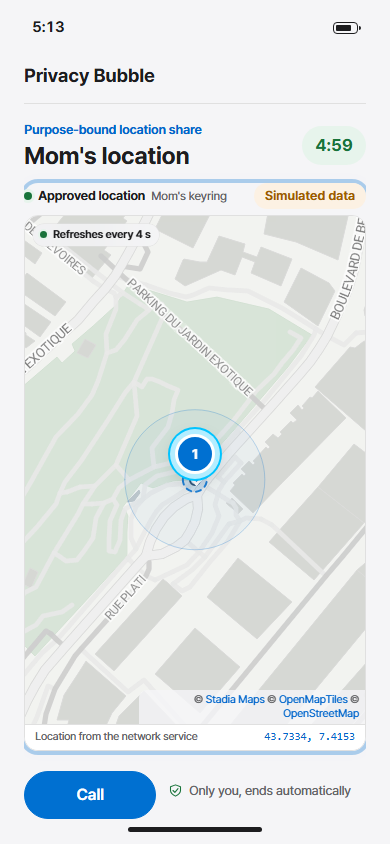
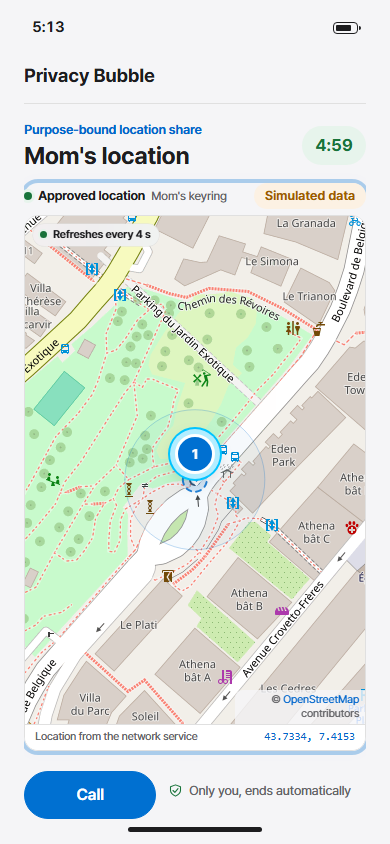
fix(web): use public map tiles without credentials

diff --git a/web-dashboard/shared/map-presentation.ts b/web-dashboard/shared/map-presentation.ts
@@ -39,8 +39,10 @@ export function mapTileStyle(style: MapStyle, settings: {
   if (settings.customUrl) return { url: settings.customUrl, attribution: settings.customAttribution || osmAttribution, maxZoom: 19 };
   const stadiaKey = settings.stadiaKey?.trim();
   const stadiaDomain = settings.stadiaDomain?.trim().toLowerCase();
-  // Without a key or domain, Stadia still serves localhost and LAN hosts; a public host that gets 401 falls back to OpenStreetMap at runtime.
-  if (!stadiaKey && stadiaDomain && stadiaDomain !== settings.hostname?.toLowerCase()) return street;
+  // Stadia serves only an API-key request or the exact registered domain. Every other host starts
+  // with OpenStreetMap, because some tile providers return a branded 401 image with HTTP 200 and
+  // therefore never emit Leaflet's tileerror event.
+  if (!stadiaKey && (!stadiaDomain || stadiaDomain !== settings.hostname?.toLowerCase())) return street;
   const key = stadiaKey ? `?api_key=${encodeURIComponent(stadiaKey)}` : '';
   return {
     url: `https://tiles.stadiamaps.com/tiles/alidade_smooth/{z}/{x}/{y}{r}.png${key}`,

diff --git a/web-dashboard/test/map-presentation.test.ts b/web-dashboard/test/map-presentation.test.ts
@@ -20,10 +20,9 @@ test('지도 공급자 전환은 각 공급자의 출처와 확대 한도를 함
   assert.equal(custom.attribution, 'Registered map provider');
 });
 
-test('키와 등록 도메인이 없으면 키 없는 Stadia 지도를 먼저 쓴다', () => {
-  const keyless = 'https://tiles.stadiamaps.com/tiles/alidade_smooth/{z}/{x}/{y}{r}.png';
-  assert.equal(mapTileStyle('map').url, keyless);
-  assert.equal(mapTileStyle('map', { stadiaKey: '   ', stadiaDomain: '  ', hostname: 'localhost' }).url, keyless);
+test('키와 등록 도메인이 없으면 OpenStreetMap을 바로 쓴다', () => {
+  assert.deepEqual(mapTileStyle('map'), fallbackMapTile);
+  assert.deepEqual(mapTileStyle('map', { stadiaKey: '   ', stadiaDomain: '  ', hostname: 'localhost' }), fallbackMapTile);
 });
 
 test('등록 도메인이 현재 호스트와 일치하면 API 키 없이 Stadia를 사용한다', () => {

diff --git a/web-dashboard/src/location-map.css b/web-dashboard/src/location-map.css
@@ -37,8 +37,8 @@
 }
 .story-location-readout span { min-width: 0; overflow-wrap: anywhere; }
 .story-location-readout code { color: var(--accent-text); font-size: 11px; font-variant-numeric: tabular-nums; white-space: nowrap; }
-/* The tile attribution stays complete (Stadia Maps, OpenMapTiles, OpenStreetMap); the optional Leaflet
-   prefix steps out of the small story map */
+/* Tile attribution stays complete for the active provider; the optional Leaflet prefix steps out of
+   the small story map. */
 .location-story .leaflet-control-attribution { max-width: calc(100% - 16px); padding: 2px 7px; border-top-left-radius: 8px; font-size: 11px; line-height: 14px; text-align: right; }
 .location-story .leaflet-control-attribution > a[href="https://leafletjs.com"],
 .location-story .leaflet-control-attribution > a[href="https://leafletjs.com"] + span { display: none; }

diff --git a/web-dashboard/apple.md b/web-dashboard/apple.md
@@ -662,7 +662,7 @@ HttpOnly browser session (403 before approval, after expiry and for any other br
  | (o) Refreshes every 4 s                       |  live chip, top-left (11px/600)
  |                     (1)                       |  pin, centered by fitBounds
  |             (accuracy circle)                 |
- |       (c) Stadia Maps (c) OpenMapTiles (c) OSM|  tile attribution, bottom-right (11px)
+ |                         (c) OpenStreetMap      |  tile attribution, bottom-right (11px)
  |-----------------------------------------------|
  | Location from the network service  43.7334, 7.4153 |  readout caption line under the canvas
  +-----------------------------------------------+
@@ -683,9 +683,10 @@ HttpOnly browser session (403 before approval, after expiry and for any other br
   chip on the pin; the countdown carries the live state there) and the flags take the action
   note's slot beside Call.
 - Portrait fallback: while the map shows, the app pane takes 50% of the stage instead of 44%.
-- Attribution: the complete tile attribution (Stadia Maps, OpenMapTiles, OpenStreetMap) stays
-  visible at 11px on a frosted strip; the optional Leaflet prefix steps out of the small story
-  map (the operator map keeps it). Nothing in the map renders below 11px.
+- Attribution: the complete active-provider credit stays visible at 11px on a frosted strip;
+  an unconfigured public host starts with OpenStreetMap, while a Stadia API key or exact registered
+  domain keeps the Stadia Maps, OpenMapTiles and OpenStreetMap credits. The optional Leaflet prefix
+  steps out of the small story map (the operator map keeps it). Nothing in the map renders below 11px.
 - Measured (scratch review, replay CSE, approved map): 1440 x 900 map frame 298 x 483 (canvas
   296 x 417, caption 296 x 26), Call 115 x 48; 844 x 390 with insets 47 / 47 / 21 canvas 268 x 141;
   812 x 265 Safari canvas 234 x 118 at x 364, y 50, caption 22px, pin 32px centered, Call 144 x 44
